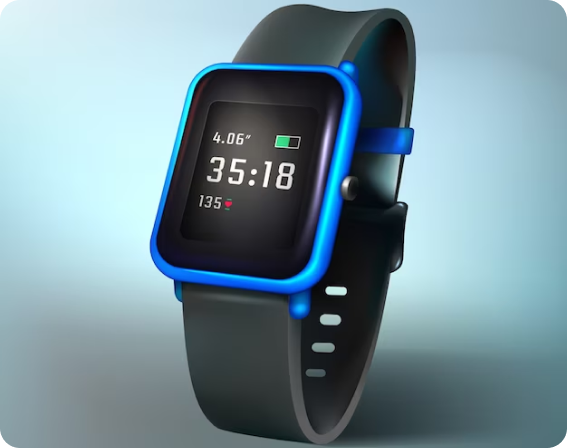
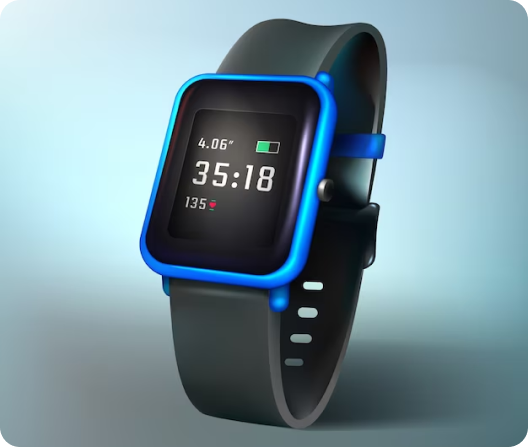
same size images

diff --git a/index.html b/index.html
@@ -613,7 +613,7 @@ creators
             <div class="slideshow-container4">
           
               <div class="mySlides4 mx-auto" style="display: block;">
-                   <img src="./resources/image138.png" class="w-full mx-auto" alt="" />
+                   <img src="./resources/image176.png" class="w-full mx-auto" alt="" />
               </div>
             
               <div class="mySlides4 mx-auto">
